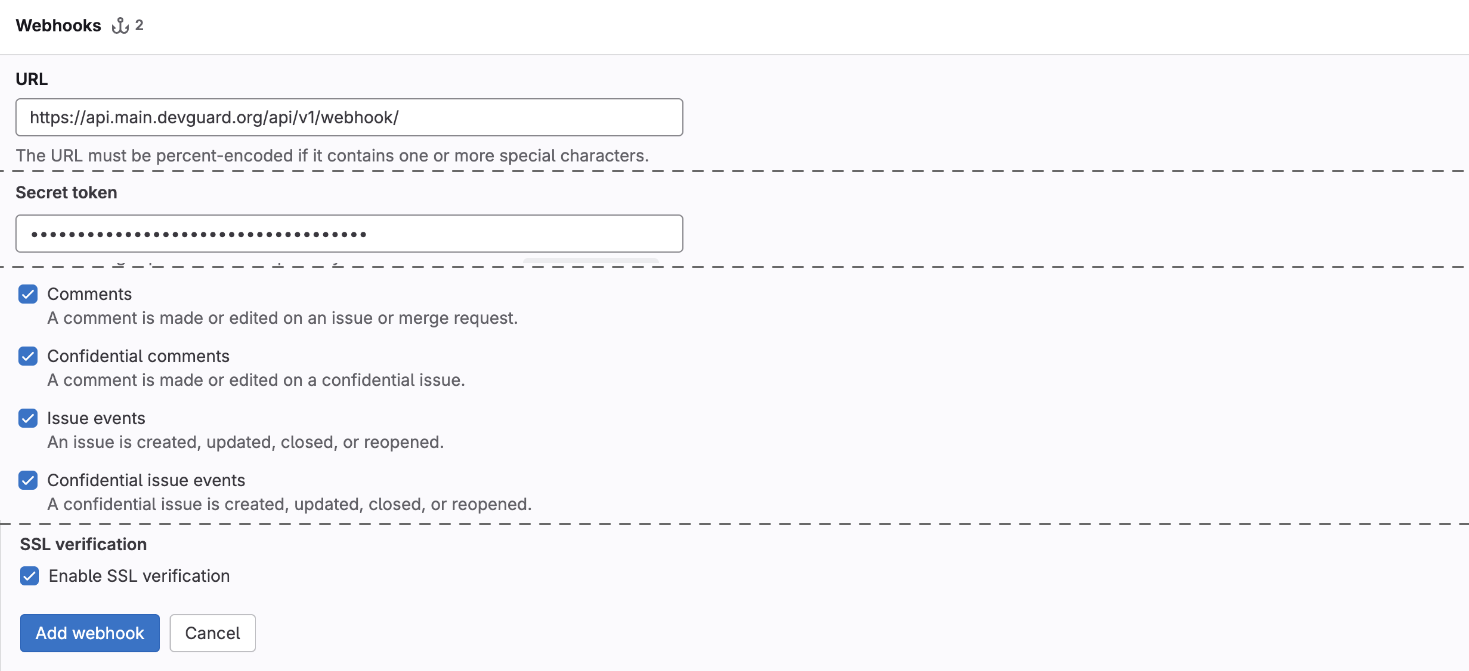
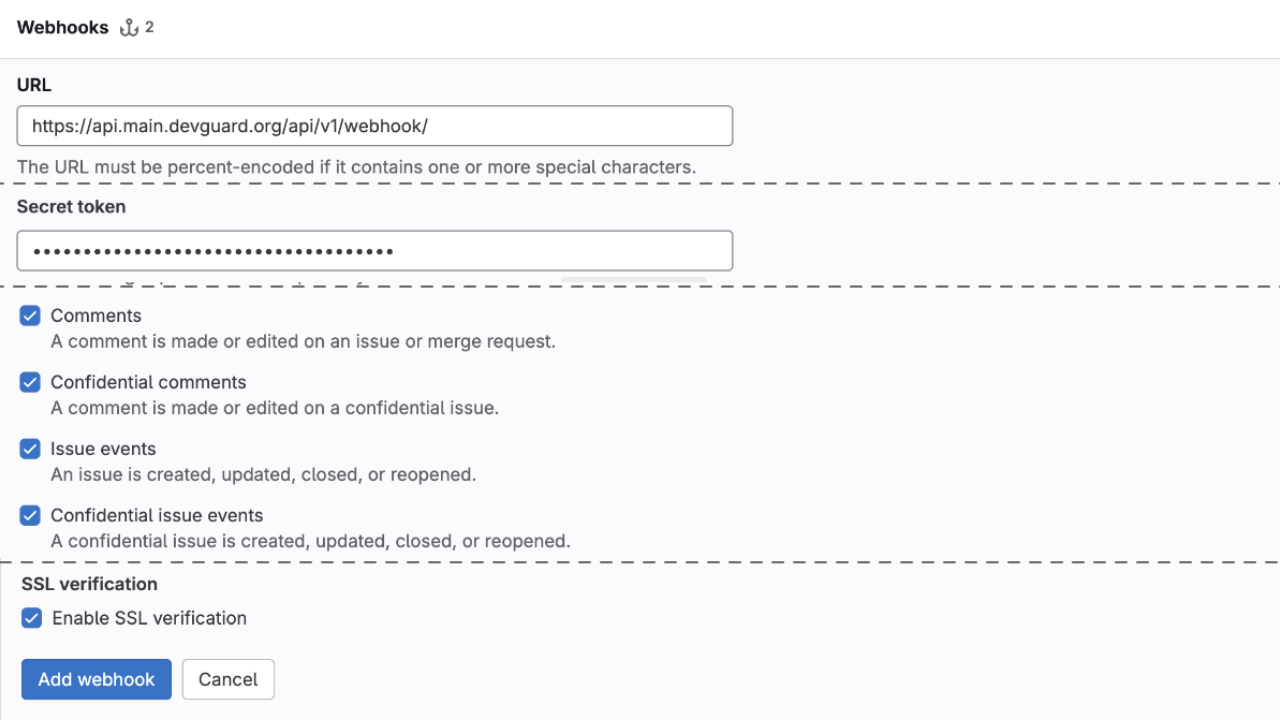
Improves dialog nav

diff --git a/src/components/guides/webhook-setup-carousel-slides/WebhookSetupSlide.tsx b/src/components/guides/webhook-setup-carousel-slides/WebhookSetupSlide.tsx
@@ -11,6 +11,8 @@ import { config } from "@/config";
 import { InputWithCustomButton } from "@/components/ui/input-with-custom-button";
 import { ImageZoom } from "@/components/common/Zoom";
 import { Button } from "@/components/ui/button";
+import { Badge } from "@/components/ui/badge";
+import Image from "next/image";
 
 interface WebhookSetupSlideProps {
   api?: {
@@ -60,7 +62,10 @@ export default function WebhookSetupSlide({
     <CarouselItem>
       <DialogHeader>
         <DialogTitle>
-          Connect with GitLab to allow DevGuard to create tickets
+          <Badge className="mr-2" variant="secondary">
+            Step 2/2
+          </Badge>{" "}
+          Set Webhook to allow DevGuard to recieve ticket updates
         </DialogTitle>
         <hr className="my-4" />
       </DialogHeader>
@@ -70,14 +75,15 @@ export default function WebhookSetupSlide({
         triggers like shown in the screenshot below. You must set a secret
         token.
       </p>
-      <div className="relative aspect-video w-full max-w-4xl">
-        <ImageZoom
-          src="/assets/gitlab-webhooks-combined.png"
-          alt="GitLab Webhooks"
-          className="rounded-md"
-          fill
-        />
-      </div>
+
+      <Image
+        src="/assets/gitlab-webhooks-combined.png"
+        alt="GitLab Webhooks"
+        className="rounded-md w-full h-auto"
+        width={1280}
+        height={720}
+      />
+
       <div className="p-1">
         <InputWithCustomButton
           label="Webhook URL"

diff --git a/src/components/common/GitLabIntegrationForm.tsx b/src/components/common/GitLabIntegrationForm.tsx
@@ -26,12 +26,14 @@ export interface GitLabIntegrationFormProps {
   onNewIntegration: (integration: GitLabIntegrationDTO) => void;
   setOpen?: (open: boolean) => void;
   additionalOnClick?: () => void;
+  backButtonClick?: () => void;
 }
 
 export default function GitLabIntegrationForm({
   onNewIntegration,
   setOpen,
   additionalOnClick,
+  backButtonClick,
 }: GitLabIntegrationFormProps) {
   const form = useForm<{ url: string; token: string; name: string }>();
   const activeOrg = useActiveOrg();
@@ -144,10 +146,17 @@ export default function GitLabIntegrationForm({
         />
         <div className="flex flex-row justify-end">
           <div className="flex flex-col items-end justify-end gap-2">
-            <Button disabled={isLoading} type="submit">
-              <Loader />
-              Test and Save
-            </Button>
+            <div className="flex flex-row gap-4">
+              {backButtonClick && (
+                <Button variant={"secondary"} onClick={backButtonClick}>
+                  Back
+                </Button>
+              )}
+              <Button disabled={isLoading} type="submit">
+                <Loader />
+                Test and Save
+              </Button>
+            </div>
             <small className="text-muted-foreground">
               Checks if the provided access token is valid and has at least
               Reporter-Access.

diff --git a/src/components/guides/webhook-setup-carousel-slides/GitLabIntegrationSetupSlide.tsx b/src/components/guides/webhook-setup-carousel-slides/GitLabIntegrationSetupSlide.tsx
@@ -8,6 +8,7 @@ import { useStore } from "@/zustand/globalStoreProvider";
 export interface GitLabIntegrationSetupSlideProps {
   api?: {
     scrollNext: () => void;
+    scrollPrev: () => void;
   };
 }
 
@@ -36,6 +37,7 @@ export default function GitLabIntegrationSetupSlide({
         <GitLabIntegrationForm
           onNewIntegration={handleNewGitLabIntegration}
           additionalOnClick={api?.scrollNext}
+          backButtonClick={api?.scrollPrev}
         />
       </div>
     </CarouselItem>
